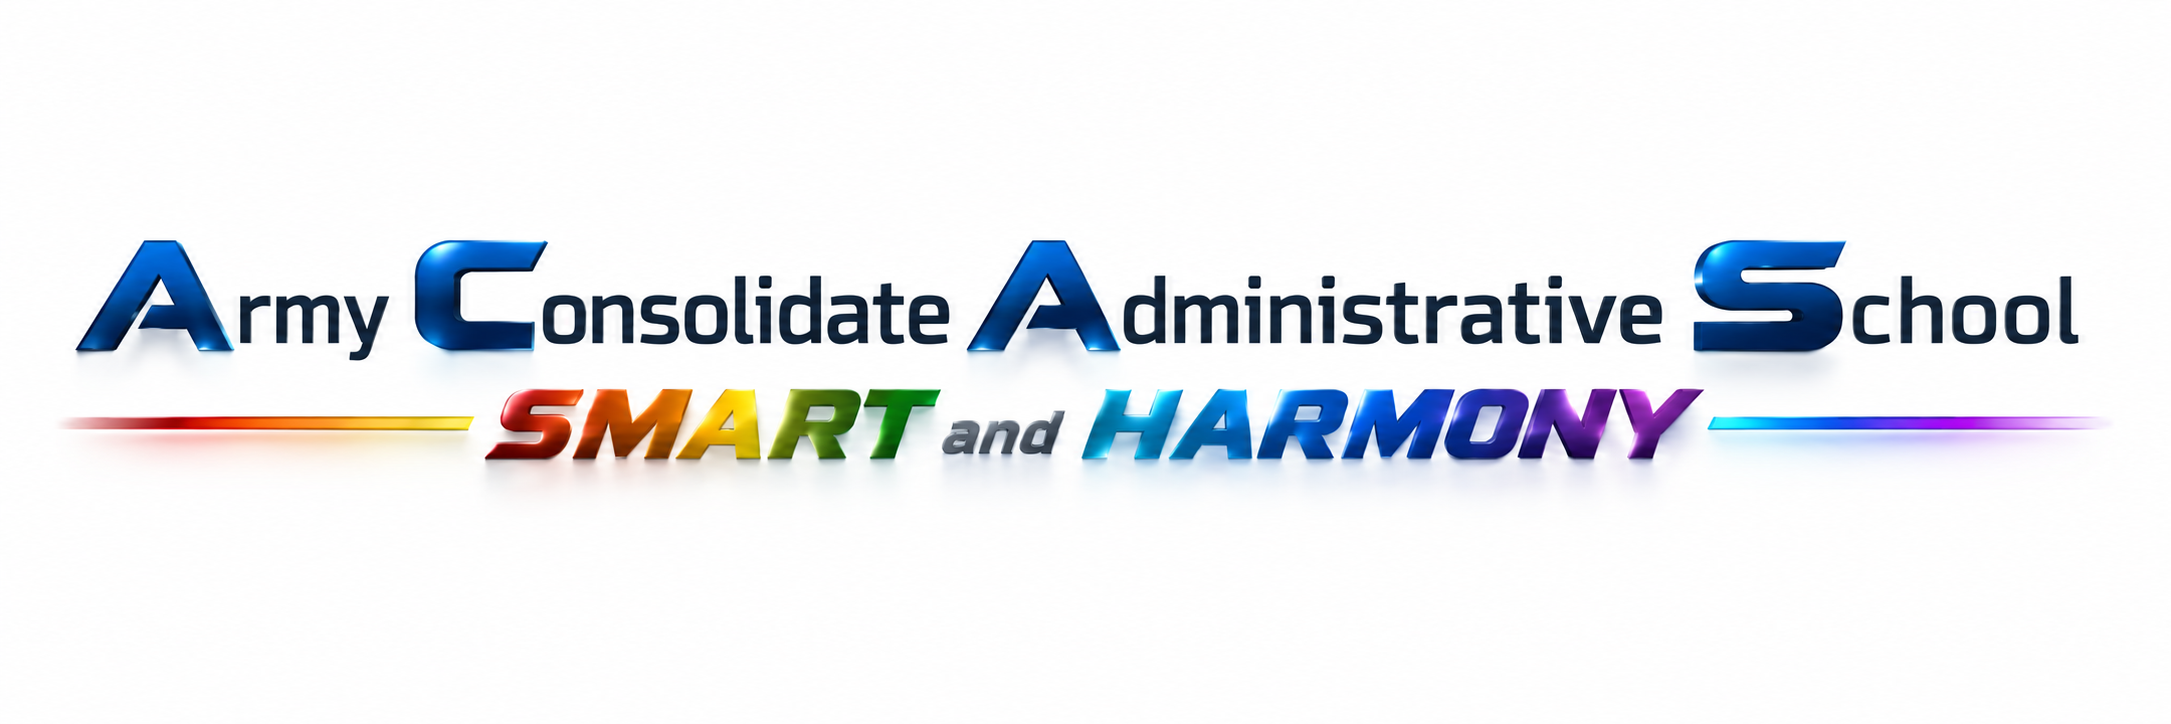
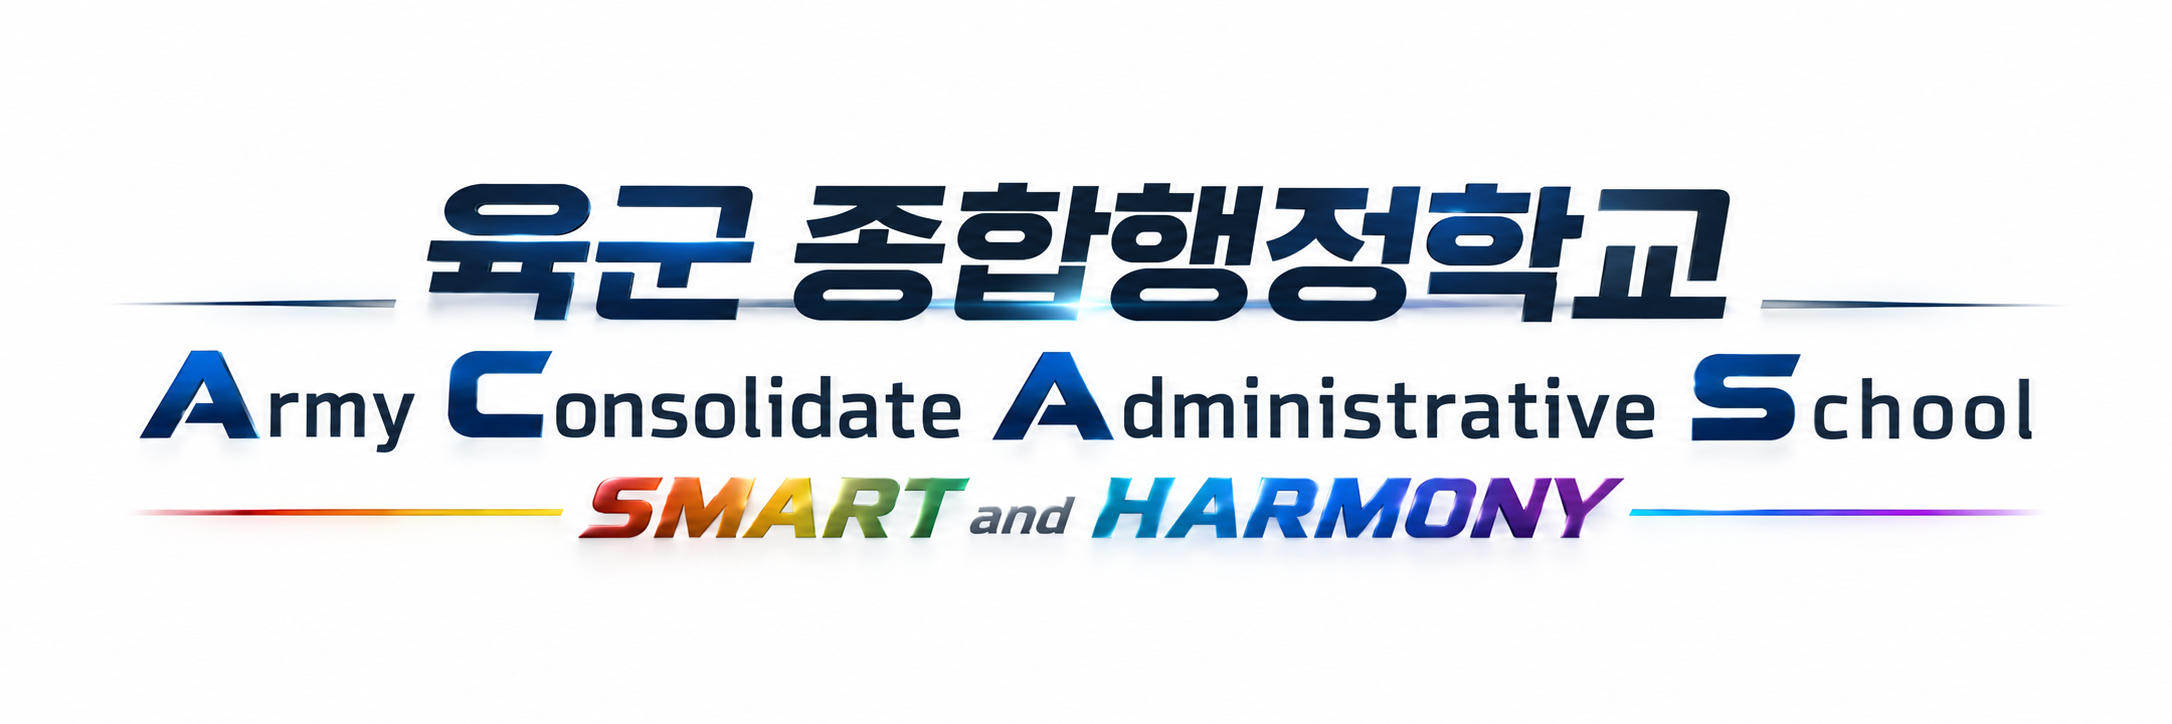
fix: show branded home before selecting a project

Changed region(s): [[0.0309, 0.2431, 0.9876, 0.7597]]

diff --git a/apps/web/index.html b/apps/web/index.html
@@ -3,7 +3,7 @@
 <body>
 <header class="topbar"><button class="icon mobile" id="menuButton" aria-label="프로젝트 목록" title="프로젝트 목록"><i data-lucide="menu"></i></button><a class="brand" href="/" aria-label="ACASia_LAW 홈"><span class="brand-emblem"><img src="/static/acas-law-emblem.jpg" alt="ACASia LAW" width="1280" height="640"></span><span class="brand-sub brand-title"><span class="brand-org">종합행정학교 법무교육단</span> <span class="brand-name">법률문서 검증시스템</span></span></a><span id="connection" class="connection">연결 확인 중</span><button id="settingsButton" class="icon" title="연결 상태" aria-label="연결 상태"><i data-lucide="settings"></i></button></header>
 <div class="workspace"><aside id="sidebar"><div class="side-title"><h2>내 프로젝트</h2><button id="newProjectBtn" class="primary sidebar-create" title="새 프로젝트" aria-label="새 프로젝트"><i data-lucide="plus"></i><span>새프로젝트</span></button></div><input id="projectSearch" type="search" placeholder="프로젝트 검색" aria-label="프로젝트 검색"><nav id="projectList" aria-label="프로젝트"></nav><div class="side-footer"><i data-lucide="shield-check"></i><span id="policyLabel">외부 AI 전송 안 함</span></div></aside>
-<main><section id="emptyState" class="empty" aria-label="ACASia_LAW"><div class="empty-brand"><img class="empty-emblem" src="/static/img/acas-law-square-transparent.png" alt="ACASia LAW" width="1254" height="1254"><img class="empty-lettering" src="/static/img/acas-lettering.png" alt="Army Consolidate Administrative School, SMART and HARMONY" width="2171" height="724"></div></section>
+<main><section id="emptyState" class="empty" aria-label="ACASia_LAW"><div class="empty-brand"><img class="empty-emblem" src="/static/img/acas-law-square-transparent.png" alt="ACASia LAW" width="1254" height="1254"><img class="empty-lettering" src="/static/img/acas-lettering.png?v=20260927-2" alt="육군 종합행정학교, Army Consolidate Administrative School, SMART and HARMONY" width="2172" height="724"></div></section>
 <section id="projectView" hidden><div class="project-heading"><div><span class="eyebrow">법률문서 검토</span><h1 id="projectTitle"></h1><p id="projectMeta" class="muted"></p></div><div class="actions"><button id="editProject" class="icon" title="프로젝트 편집" aria-label="프로젝트 편집"><i data-lucide="pencil"></i></button><button id="reportBtn" title="완료된 검증 결과로 검토 보고서를 생성합니다"><i data-lucide="file-down"></i>보고서 생성</button><button id="verifyBtn" class="primary"><i data-lucide="scan-search"></i>검증 시작</button></div></div>
 <div id="staleNotice" class="notice warning" hidden>검토 자료 또는 설정이 변경되었습니다. 기존 결과는 변경 전 자료 기준입니다.<button id="reverify">다시 검증</button></div>
 <div id="progress" class="progress" hidden><div><span id="progressText"></span><span id="progressPercent"></span></div><progress id="progressBar" max="100" value="0"></progress><p id="progressNotice" class="progress-notice" role="status" hidden></p></div>

diff --git a/apps/web/static/app.js b/apps/web/static/app.js
@@ -1803,8 +1803,6 @@ async function init() {
     projectTools.start();
     $("connection").textContent = `${identity.authentication === "local" ? "로컬" : "조직"} 작업 공간 · v${health.version}`;
     await loadProjects();
-    const id = localStorage.getItem("acas-project");
-    if (state.projects.length) await openProject(state.projects.some(p => p.id === id) ? id : state.projects[0].id);
   } catch (error) {
     $("connection").textContent = "연결 확인 필요";
     toast(error.message);

diff --git a/tests/test_frontend_project_open.py b/tests/test_frontend_project_open.py
@@ -5,6 +5,7 @@
 이유를 알린다.
 """
 import os
+import json
 import re
 from pathlib import Path
 from urllib.parse import urlsplit
@@ -16,27 +17,37 @@ ROOT = Path(__file__).resolve().parents[1]
 
 
 @pytest.mark.parametrize("width,height", [(1440, 960), (390, 844)])
-def test_clicking_an_existing_project_gives_feedback_and_opens_it(width, height):
+@pytest.mark.parametrize("remembered_project,login_required", [(None, False), ("alpha", False), ("deleted-project", False), ("alpha", True)])
+def test_clicking_an_existing_project_gives_feedback_and_opens_it(width, height, remembered_project, login_required, tmp_path):
     static = ROOT / "apps/web/static"
     files = {f"/static/{p.relative_to(static).as_posix()}": p for p in static.rglob("*") if p.is_file()}
     files["/"] = ROOT / "apps/web/index.html"
     projects = {pid: {"id": pid, "name": name, "can_delete": True, "document_count": 1,
                       "external_ai_policy": "LOCAL_ONLY", "scope_revision": 0, "deleted_at": None}
                 for pid, name in (("alpha", "첫 사건"), ("beta", "느린 사건"), ("gamma", "고장난 사건"))}
-    held, errors = [], []
+    held, errors, project_reads = [], [], []
+    authenticated = not login_required
 
     def respond(route):
+        nonlocal authenticated
         path = urlsplit(route.request.url).path
         if path in files:
             return route.fulfill(path=str(files[path]))
         if path == "/api/health":
             return route.fulfill(json={"status": "ok", "version": "0.5.0"})
         if path == "/api/identity/me":
+            if not authenticated:
+                return route.fulfill(status=401, json={"detail": "Login required"})
             return route.fulfill(json={"user_id": "u", "role": "ADMIN", "authentication": "password"})
+        if path == "/api/auth/login":
+            authenticated = True
+            return route.fulfill(json={"ok": True})
         if path == "/api/verification-runs":
             return route.fulfill(json={"active_count": 0, "runs": []})
         if path == "/api/projects":
             return route.fulfill(json=list(projects.values()))
+        if path.startswith("/api/projects/") and len(path.split("/")) == 4:
+            project_reads.append(path)
         if path.startswith("/api/projects/beta"):
             return held.append(route)  # 느린 서버: 테스트가 풀어 줄 때까지 응답하지 않는다.
         if path == "/api/projects/gamma":
@@ -59,7 +70,22 @@ def test_clicking_an_existing_project_gives_feedback_and_opens_it(width, height)
             page = browser.new_page(viewport={"width": width, "height": height})
             page.on("pageerror", lambda error: errors.append(str(error)))
             page.route("**/*", respond)
+            if remembered_project is not None:
+                page.add_init_script(f"localStorage.setItem('acas-project', {json.dumps(remembered_project)})")
             page.goto("http://open.test/")
+            if login_required:
+                login = page.get_by_role("dialog", name="작업 공간 로그인")
+                login.get_by_label("이메일", exact=True).fill("viewer@example.test")
+                login.get_by_label("비밀번호", exact=True).fill("test-only-password")
+                login.get_by_role("button", name="로그인", exact=True).click()
+                expect(login).not_to_be_visible()
+            expect(page.locator("#projectList > button")).to_have_count(3)
+            expect(page.locator("#emptyState .empty-emblem")).to_be_visible()
+            expect(page.locator("#emptyState .empty-lettering")).to_be_visible()
+            expect(page.locator("#projectView")).to_be_hidden()
+            assert project_reads == [] and page.evaluate("state.project") is None
+            page.screenshot(path=str(tmp_path / f"workspace-home-{width}.png"), full_page=True)
+            project_button(page, "첫 사건").click()
             expect(page.locator("#projectTitle")).to_have_text("첫 사건")
 
             slow = project_button(page, "느린 사건")
@@ -89,6 +115,12 @@ def test_clicking_an_existing_project_gives_feedback_and_opens_it(width, height)
             project_button(page, "첫 사건").click()
             expect(page.locator("#projectTitle")).to_have_text("첫 사건")
             assert errors == []
+            project_reads.clear()
+            page.reload()
+            expect(page.locator("#projectList > button")).to_have_count(3)
+            expect(page.locator("#emptyState")).to_be_visible()
+            expect(page.locator("#projectView")).to_be_hidden()
+            assert project_reads == [] and page.evaluate("state.project") is None
             page.close()
         finally:
             browser.close()

diff --git a/tests/test_frontend_emblem.py b/tests/test_frontend_emblem.py
@@ -68,17 +68,17 @@ def test_emblem_login_and_header_at_desktop_tablet_and_mobile_sizes(tmp_path):
                 expect(page.locator("#emptyState")).not_to_contain_text("created by")
                 lettering = page.locator(".empty-lettering")
                 expect(lettering).to_be_visible()
-                expect(lettering).to_have_attribute("src", "/static/img/acas-lettering.png")
-                expect(lettering).to_have_attribute("alt", "Army Consolidate Administrative School, SMART and HARMONY")
+                expect(lettering).to_have_attribute("src", "/static/img/acas-lettering.png?v=20260927-2")
+                expect(lettering).to_have_attribute("alt", "육군 종합행정학교, Army Consolidate Administrative School, SMART and HARMONY")
                 page.wait_for_function("""() => {
                     const image = document.querySelector('.empty-lettering');
-                    return image.complete && image.naturalWidth === 2171 && image.naturalHeight === 724;
+                    return image.complete && image.naturalWidth === 2172 && image.naturalHeight === 724;
                 }""")
                 assert lettering.evaluate("""el => {
                     const rect = el.getBoundingClientRect(), emblem = el.previousElementSibling.getBoundingClientRect();
                     return Math.abs(rect.width / emblem.width - 1.2) < .01 && rect.top >= emblem.bottom
                         && Math.abs(rect.left + rect.width / 2 - emblem.left - emblem.width / 2) < 1
-                        && Math.abs(rect.width / rect.height - 2171 / 724) < .02
+                        && Math.abs(rect.width / rect.height - 2172 / 724) < .02
                         && rect.left >= 0 && rect.right <= innerWidth && emblem.width >= 200
                         && Math.abs(emblem.width - Math.min(280, rect.width / 1.2)) < 1;
                 }""")

diff --git a/tests/test_frontend_report_button.py b/tests/test_frontend_report_button.py
@@ -5,6 +5,7 @@ from urllib.parse import urlsplit
 
 import pytest
 from playwright.sync_api import expect, sync_playwright
+from frontend_helpers import select_first_project
 
 from test_frontend_report_progress import REPORT
 
@@ -70,6 +71,7 @@ def test_top_button_generates_and_reports_tab_only_downloads(width, height):
             page.route("**/*", serve("COMPLETED", seen))
             page.goto("http://reports.test/")
             button = page.locator("#reportBtn")
+            select_first_project(page)
             expect(button).to_have_text("보고서 생성")
             expect(button).to_be_enabled()
             expect(page.locator("[data-panel='documents']")).to_be_visible()     # 다른 탭에서도 바로 생성한다
@@ -99,6 +101,7 @@ def test_top_button_waits_for_a_finished_run(state):
         try:
             page.route("**/*", serve(state, seen))
             page.goto("http://reports.test/")
+            select_first_project(page)
             expect(page.locator("#projectTitle")).to_have_text("시험 사건")
             expect(page.locator("#reportBtn")).to_be_disabled()
             expect(page.locator("#reportBtn")).to_have_attribute("title", "검증이 끝나면 보고서를 생성할 수 있습니다")

diff --git a/tests/test_frontend_report_progress.py b/tests/test_frontend_report_progress.py
@@ -5,6 +5,7 @@ from urllib.parse import urlsplit
 
 import pytest
 from playwright.sync_api import expect, sync_playwright
+from frontend_helpers import select_first_project
 
 ROOT = Path(__file__).resolve().parents[1]
 REPORT = {"report_id": "rpt_1", "project_id": "p1", "run_id": "r1", "formats": ["pdf"], "include_sealed": False,
@@ -73,6 +74,7 @@ def test_report_generation_shows_live_progress(width, height):
             page.on("pageerror", lambda e: errors.append(str(e)))
             page.route("**/*", respond)
             page.goto("http://reports.test/")
+            select_first_project(page)
             page.locator("#workspaceGroups").get_by_role("button", name="보고서", exact=True).click()
             # 보고서 생성은 상단 버튼으로 하고, 보고서 탭에는 생성 버튼이 없다(0.9.9).
             page.locator("[data-tab='reports']").click()

diff --git a/tests/test_frontend_gate.py b/tests/test_frontend_gate.py
@@ -5,6 +5,7 @@ from urllib.parse import urlsplit
 
 import pytest
 from playwright.sync_api import expect, sync_playwright
+from frontend_helpers import select_first_project
 
 ROOT = Path(__file__).resolve().parents[1]
 GATE = {"release_gate": "BLOCK", "hallucination_risk": 72,
@@ -49,6 +50,7 @@ def test_gate_reasons_are_shown_open_and_readable(width, height):
             page = browser.new_page(viewport={"width": width, "height": height})
             page.route("**/*", respond)
             page.goto("http://gate.test/")
+            select_first_project(page)
             reasons = page.get_by_role("region", name="배포가능 판정 사유")
             expect(reasons).to_contain_text("배포 차단 — 사유 6건")
             assert page.locator("#summary details").count() == 0, "접힌 상자에 숨기지 않는다"

diff --git a/tests/test_reasoning_layout.py b/tests/test_reasoning_layout.py
@@ -72,6 +72,7 @@ def test_docx_cell_keeps_line_breaks():
 
 
 def test_web_table_renders_each_part_on_its_own_line():
+    from frontend_helpers import select_first_project
     from playwright.sync_api import expect, sync_playwright
 
     static = ROOT / "apps/web/static"
@@ -116,6 +117,7 @@ def test_web_table_renders_each_part_on_its_own_line():
             page = browser.new_page(viewport={"width": 1280, "height": 1400})
             page.route("**/*", respond)
             page.goto("http://layout.test/")
+            select_first_project(page)
             page.wait_for_function("state.result && state.result.documents && state.result.documents.length === 1")
             page.evaluate("switchTab('ai-verification')")
             cell = page.locator("#aiVerificationRows tr").nth(0).locator("td").nth(3)

diff --git a/tests/test_drive_rag_relevance.py b/tests/test_drive_rag_relevance.py
@@ -382,6 +382,7 @@ def test_check_script_prints_delete_candidates(tmp_path):
 
 
 def test_web_shows_drive_health_selection_and_duplicates(tmp_path):
+    from frontend_helpers import select_first_project
     import os
     from pathlib import Path
     from urllib.parse import urlsplit
@@ -440,6 +441,7 @@ def test_web_shows_drive_health_selection_and_duplicates(tmp_path):
             page = browser.new_page(viewport={"width": 1280, "height": 1400})
             page.route("**/*", respond)
             page.goto("http://drive.test/")
+            select_first_project(page)
             page.wait_for_function("state.result && state.result.documents && state.result.documents.length === 1")
             page.evaluate("switchTab('ai-verification')")
             section = page.locator(".reference-section")

diff --git a/tests/test_frontend_model_opinions.py b/tests/test_frontend_model_opinions.py
@@ -5,6 +5,7 @@ from urllib.parse import urlsplit
 
 import pytest
 from playwright.sync_api import expect, sync_playwright
+from frontend_helpers import select_first_project
 
 ROOT = Path(__file__).resolve().parents[1]
 GATE = {"release_gate": "BLOCK", "hallucination_risk": 72,
@@ -85,6 +86,7 @@ def test_each_model_verdict_and_explanation_is_shown(width, height, tmp_path):
             page = browser.new_page(viewport={"width": width, "height": height})
             page.route("**/*", respond)
             page.goto("http://models.test/")
+            select_first_project(page)
             page.wait_for_function("state.result && state.result.documents && state.result.documents.length === 2")
             page.evaluate("switchTab('ai-verification')")
             cards = page.locator("#aiSummaryCards")

diff --git a/tests/test_frontend_retry.py b/tests/test_frontend_retry.py
@@ -5,6 +5,7 @@ from urllib.parse import urlsplit
 
 import pytest
 from playwright.sync_api import expect, sync_playwright
+from frontend_helpers import select_first_project
 
 ROOT = Path(__file__).resolve().parents[1]
 
@@ -61,6 +62,7 @@ def test_retry_button_tracks_the_new_run_until_completion(tmp_path, width, heigh
             page.on("pageerror", lambda error: errors.append(str(error)))
             page.route("**/*", respond)
             page.goto("http://retry.test/")
+            select_first_project(page)
             page.get_by_role("button", name="같은 입력으로 재시도", exact=True).click()
             dialog = page.get_by_role("dialog", name="검증 재시도", exact=True)
             expect(dialog).to_contain_text("현재 분석 엔진")

diff --git a/tests/test_frontend_project_tools.py b/tests/test_frontend_project_tools.py
@@ -5,6 +5,7 @@ from urllib.parse import urlsplit, parse_qs
 
 import pytest
 from playwright.sync_api import expect, sync_playwright
+from frontend_helpers import select_first_project
 
 ROOT = Path(__file__).resolve().parents[1]
 
@@ -80,6 +81,7 @@ def test_background_wake_and_project_trash(tmp_path, width, height):
             page.on("pageerror", lambda error: errors.append(str(error)))
             page.route("**/*", respond)
             page.goto("http://workspace.test/")
+            select_first_project(page)
             expect(page.locator("#projectTitle")).to_have_text("Background case")
             expect(page.locator("#deleteProject")).to_be_disabled()
             expect(page.locator("#backgroundJobsButton")).to_contain_text("1")
